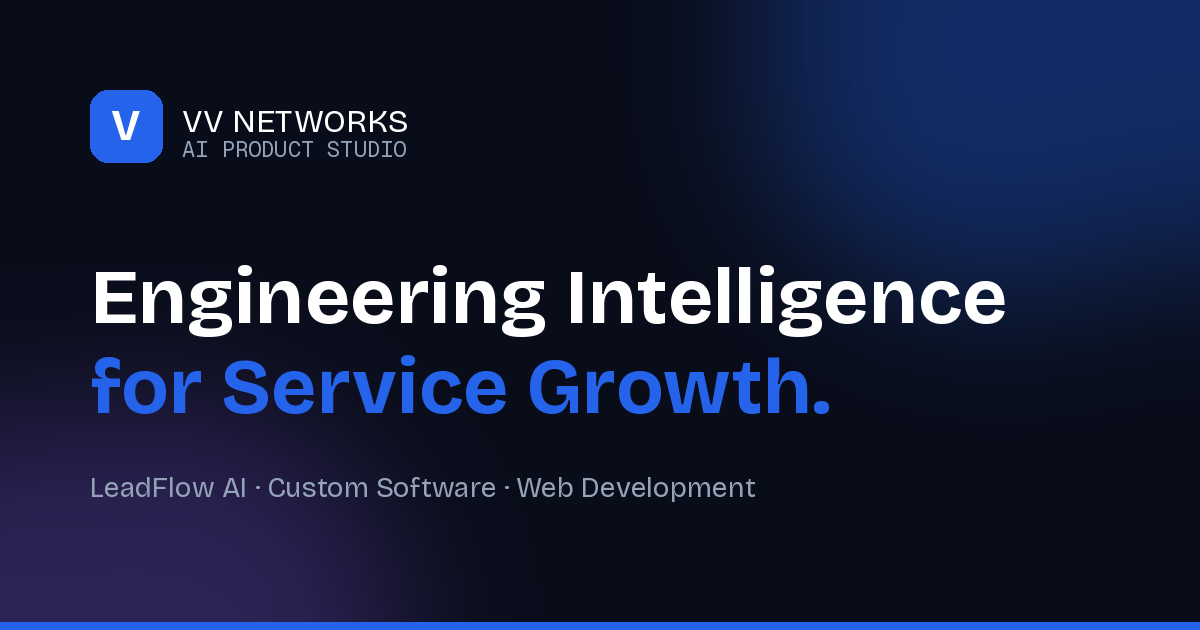
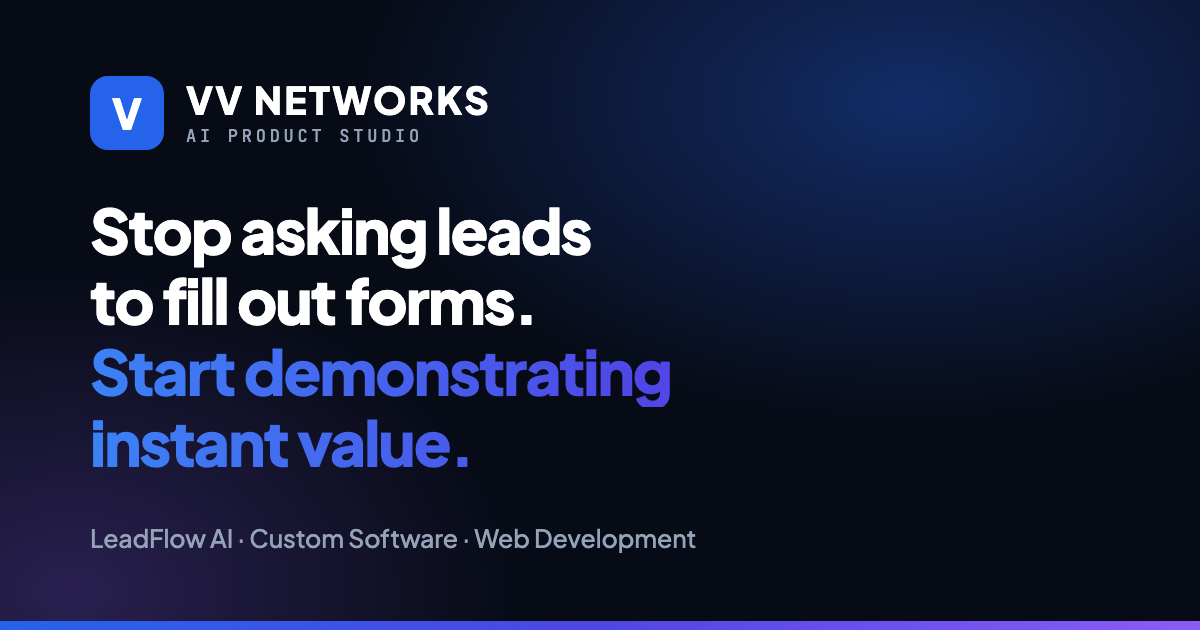
fix: regenerate og-image.png to match current live hero copy instead of unshipped redesign mockup
Per follow-up direction, the mismatch was the reverse of the original report:
og-image.png already matched the live hero ("Engineering Intelligence for
Service Growth."). The hero itself was the stale redesign copy, and the
intended headline was the one previously used only as the #leadflow section
h2. So the hero changes and the OG image follows it.

src/App.tsx
- headlineWords -> ["Stop asking leads", "to fill out forms.",
  "Start demonstrating", "instant value."]
- GradientWord accent moves from index 1 to indices 2-3, so the whole second
  sentence carries the accent. Accenting only "to fill out forms." would have
  highlighted the negative half of the line.
- Dropped a no-op ternary (`${i === 1 ? "" : ""}`) in the same JSX.

public/og-image.png — regenerated, 1200x630, 272 KB (was 103 KB; larger
because the gradient field dithers, still well inside the few-hundred-KB
budget). Same layout as before: logo lockup, dark navy field with blue and
violet glows, tagline, bottom accent bar. Only the headline copy changed, and
it uses the same four-line split as the hero.

tools/og-image/og-image.html — new. There was no generator before; the old
PNG was a static hand-made file with no source, so it could not be updated
reproducibly. This is a plain HTML file rendered by the system Chrome that is
already installed. No image tooling was added as a dependency (none of
playwright/puppeteer/sharp/satori/resvg were present, and adding one for a
[…]

Changed region(s): [[0.0617, 0.0, 0.8633, 0.8143], [0.0617, 0.8444, 1.0, 1.0], [0.8325, 0.0, 1.0, 0.3619]]

diff --git a/tools/og-image/og-image.html b/tools/og-image/og-image.html
@@ -1,0 +1,155 @@
+<!doctype html>
+<!--
+  Source template for public/og-image.png (1200x630, OG/Twitter card size).
+
+  This is a one-off asset generator, deliberately not wired into `npm run build` —
+  the image only changes when the hero copy changes. No image tooling is added as a
+  dependency; regeneration uses the system Chrome that is already installed.
+
+  Regenerate:
+
+    "/Applications/Google Chrome.app/Contents/MacOS/Google Chrome" \
+      --headless=new --disable-gpu --hide-scrollbars \
+      --window-size=1200,630 --default-background-color=00000000 \
+      --virtual-time-budget=10000 \
+      --screenshot=public/og-image.png \
+      "file://$PWD/tools/og-image/og-image.html"
+
+  Headline copy must match the live hero h1 in src/App.tsx (`headlineWords`).
+  Sentence 1 renders white; sentence 2 renders in the brand gradient, mirroring
+  the hero's GradientWord treatment.
+-->
+<html lang="en">
+<head>
+  <meta charset="UTF-8" />
+  <link rel="preconnect" href="https://fonts.googleapis.com" />
+  <link rel="preconnect" href="https://fonts.gstatic.com" crossorigin />
+  <link href="https://fonts.googleapis.com/css2?family=Plus+Jakarta+Sans:wght@500;700;800&family=JetBrains+Mono:wght@500&display=swap" rel="stylesheet" />
+  <style>
+    :root {
+      --brand-navy:      #090D1A;
+      --brand-blue:      #2563EB;
+      --brand-indigo:    #4F46E5;
+      --brand-violet:    #8B5CF6;
+      --brand-slate-300: #CBD5E1;
+      --brand-slate-400: #94A3B8;
+      --font-sans: "Plus Jakarta Sans", "Inter", ui-sans-serif, system-ui, sans-serif;
+      --font-mono: "JetBrains Mono", ui-monospace, SFMono-Regular, monospace;
+    }
+
+    * { box-sizing: border-box; margin: 0; padding: 0; }
+
+    html, body { width: 1200px; height: 630px; }
+
+    body {
+      position: relative;
+      overflow: hidden;
+      font-family: var(--font-sans);
+      background:
+        radial-gradient(900px 520px at 76% 16%, rgba(37, 99, 235, 0.38), transparent 62%),
+        radial-gradient(720px 520px at 6% 94%, rgba(139, 92, 246, 0.26), transparent 62%),
+        #070B16;
+    }
+
+    .card {
+      position: absolute;
+      inset: 0;
+      padding: 76px 90px;
+      display: flex;
+      flex-direction: column;
+      justify-content: space-between;
+    }
+
+    /* ── Logo lockup ───────────────────────────────────────────── */
+    .brand { display: flex; align-items: center; gap: 22px; }
+
+    .mark {
+      width: 74px;
+      height: 74px;
+      border-radius: 18px;
+      background: var(--brand-blue);
+      color: #fff;
+      font-weight: 800;
+      font-size: 42px;
+      line-height: 1;
+      display: flex;
+      align-items: center;
+      justify-content: center;
+    }
+
+    .brand-name {
+      font-size: 38px;
+      font-weight: 800;
+      letter-spacing: 0.06em;
+      color: #fff;
+      line-height: 1.1;
+    }
+
+    .brand-sub {
+      font-family: var(--font-mono);
+      font-size: 17px;
+      font-weight: 500;
+      letter-spacing: 0.22em;
+      color: var(--brand-slate-400);
+      margin-top: 4px;
+    }
+
+    /* ── Headline ──────────────────────────────────────────────── */
+    .headline {
+      font-size: 62px;
+      font-weight: 800;
+      line-height: 1.14;
+      letter-spacing: -0.03em;
+      color: #fff;
+    }
+
+    /* One span per line, mirroring the hero's `headlineWords` array in App.tsx. */
+    .headline .line { display: block; }
+
+    .headline .accent {
+      background: linear-gradient(90deg, #3B82F6 0%, var(--brand-indigo) 55%, var(--brand-violet) 100%);
+      -webkit-background-clip: text;
+      background-clip: text;
+      color: transparent;
+    }
+
+    .tagline {
+      font-size: 25px;
+      font-weight: 500;
+      color: var(--brand-slate-400);
+      letter-spacing: -0.005em;
+    }
+
+    /* ── Bottom accent bar ─────────────────────────────────────── */
+    .bar {
+      position: absolute;
+      left: 0;
+      right: 0;
+      bottom: 0;
+      height: 9px;
+      background: linear-gradient(90deg, var(--brand-blue) 0%, var(--brand-indigo) 50%, var(--brand-violet) 100%);
+    }
+  </style>
+</head>
+<body>
+  <div class="card">
+    <div class="brand">
+      <div class="mark">V</div>
+      <div>
+        <div class="brand-name">VV NETWORKS</div>
+        <div class="brand-sub">AI PRODUCT STUDIO</div>
+      </div>
+    </div>
+
+    <h1 class="headline">
+      <span class="line">Stop asking leads</span>
+      <span class="line">to fill out forms.</span>
+      <span class="line accent">Start demonstrating</span>
+      <span class="line accent">instant value.</span>
+    </h1>
+
+    <div class="tagline">LeadFlow AI &middot; Custom Software &middot; Web Development</div>
+  </div>
+  <div class="bar"></div>
+</body>
+</html>

diff --git a/src/App.tsx b/src/App.tsx
@@ -145,7 +145,7 @@ function AppInner() {
   }, []);
 
   /* ── Animated headline words ── */
-  const headlineWords = ["Engineering", "Intelligence", "for Service", "Growth."];
+  const headlineWords = ["Stop asking leads", "to fill out forms.", "Start demonstrating", "instant value."];
 
   const faqs = [
     {
@@ -269,12 +269,12 @@ function AppInner() {
                 {headlineWords.map((word, i) => (
                   <motion.span
                     key={word}
-                    className={`block ${i === 1 ? "" : ""}`}
+                    className="block"
                     initial={{ opacity: 0, y: shouldReduce ? 0 : 28 }}
                     animate={{ opacity: 1, y: 0 }}
                     transition={{ duration: 0.55, delay: shouldReduce ? 0 : 0.15 + i * 0.1, ease: [0.21, 0.47, 0.32, 0.98] }}
                   >
-                    {i === 1 ? <GradientWord>{word}</GradientWord> : word}
+                    {i >= 2 ? <GradientWord>{word}</GradientWord> : word}
                   </motion.span>
                 ))}
               </h1>
